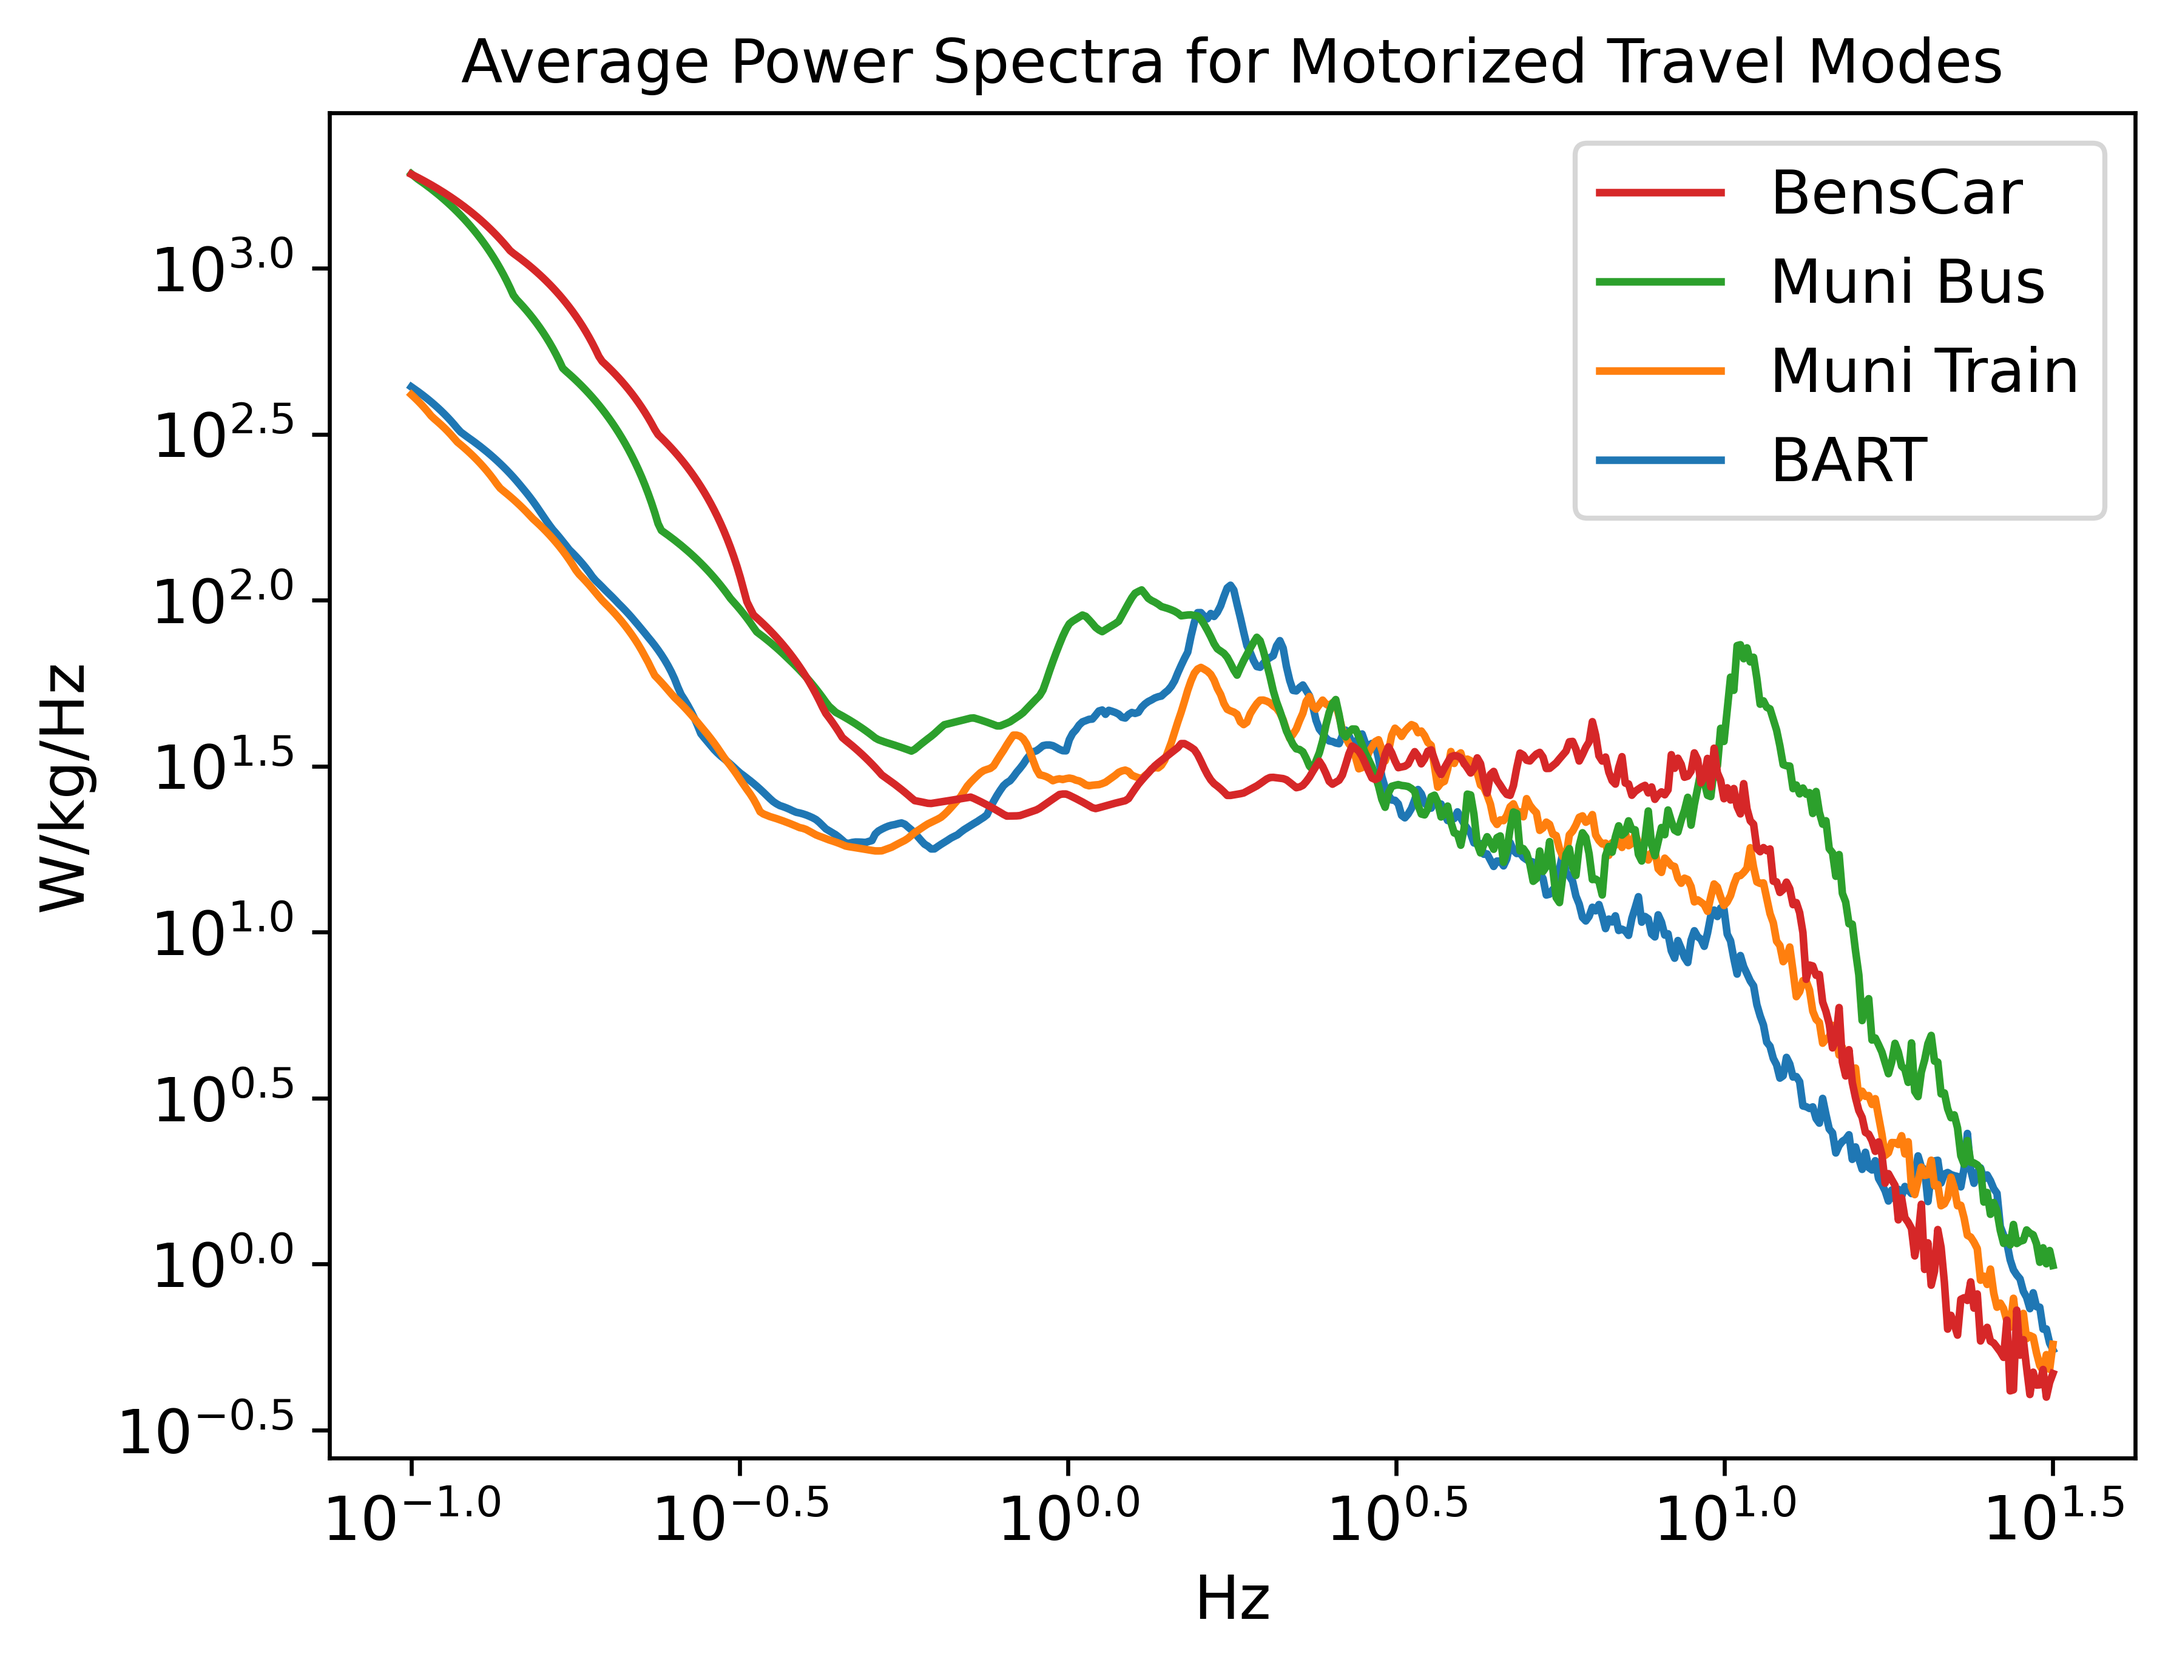
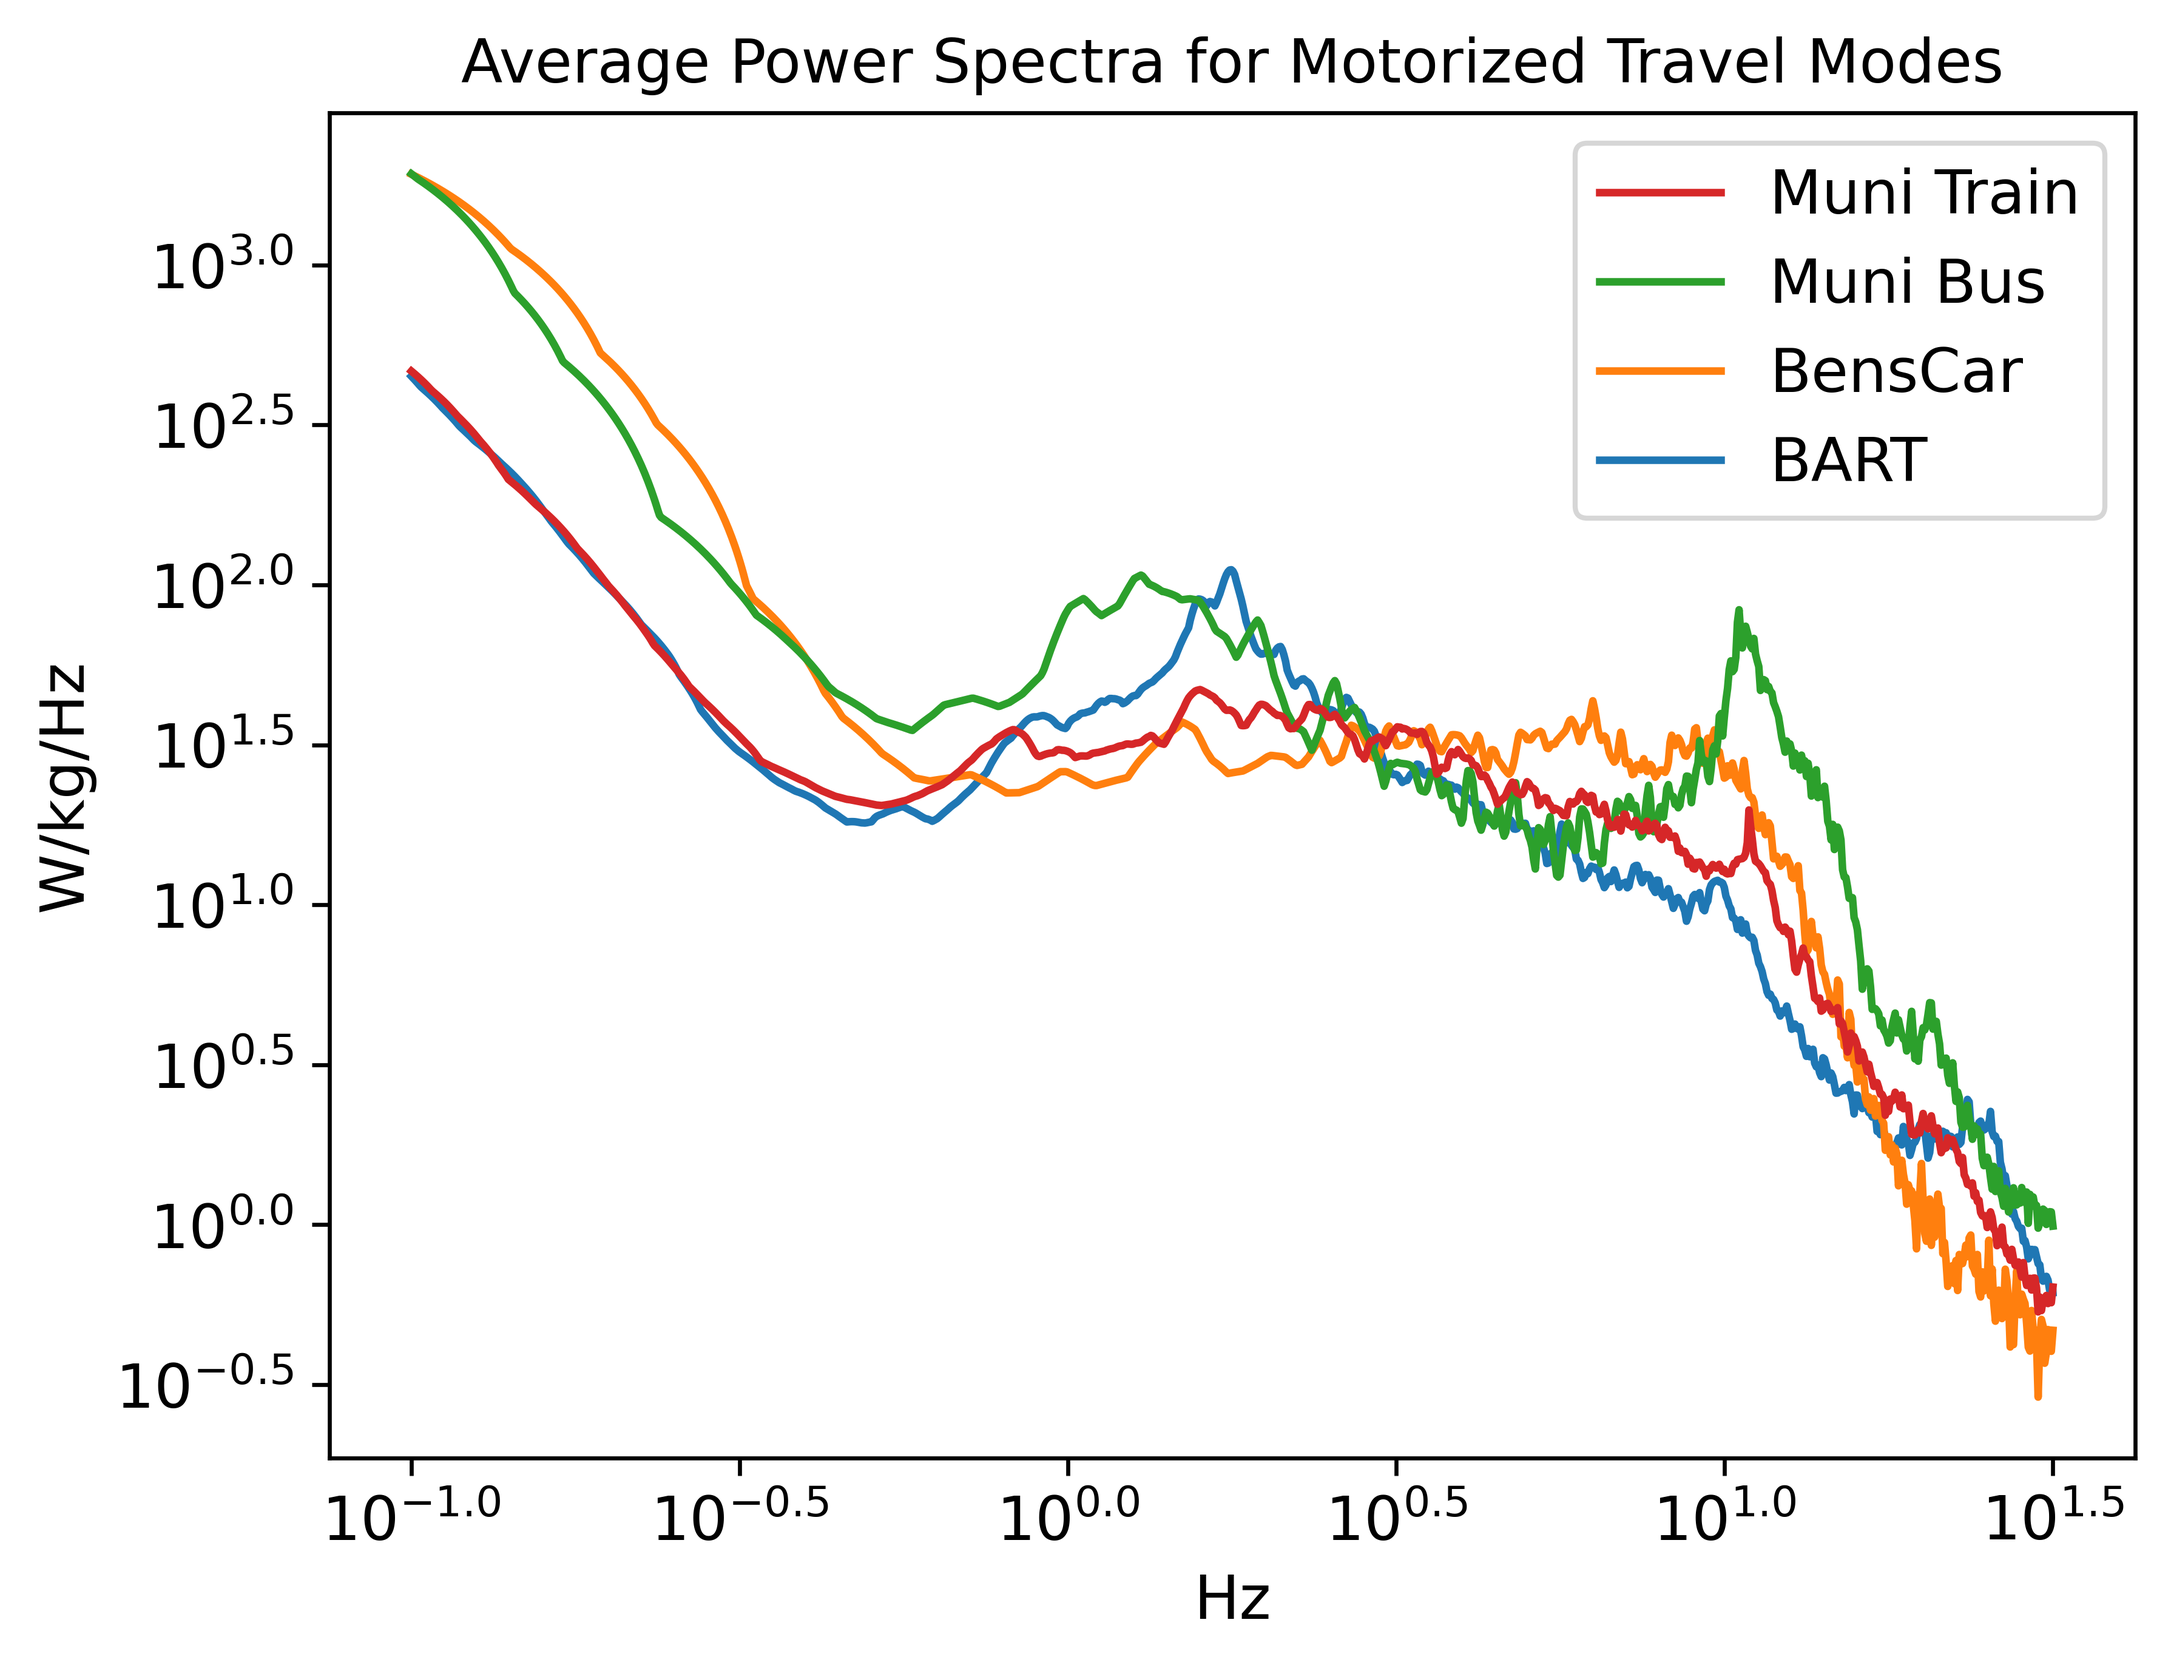
Functionalize power range analysis and input super-categories of mode types
-Also adjust the number of frequency bins to interpolate and save to 1000.

diff --git a/accelerometers.py b/accelerometers.py
@@ -3,7 +3,6 @@
 
 import pandas as pd
 import numpy as np
-import pathlib
 
 
 # Constants and file column conventions for Accelerometer.csv
@@ -13,6 +12,8 @@ TIME = 'seconds_elapsed'
 FREQ_LABEL = 'Frequency'
 POWER_LABEL = 'Smoothed Power'
 DELIMITTER = '--'
+MODE_KEY_PATH = 'ModeKey.csv'
+MODE_TYPE = 'Mode Type'
 
 
 # Clean file
@@ -70,7 +71,7 @@ def ps(data, smooth_window=10):
     return df[[POWER_LABEL]]
 
 
-def interp_combine(ps_col, freq=np.logspace(-1, 1.5, 500)):
+def interp_combine(ps_col, freq=np.logspace(-1, 1.5, 1000)):
     # Interpolate and combine onto a common axis
     # ps collection has keys with labels concatenated by category and DELIMITTER with individual trip
     # Organize with column multi-index and return.
@@ -91,3 +92,50 @@ def interp_combine(ps_col, freq=np.logspace(-1, 1.5, 500)):
     combined = combined.pivot(index='Freq', columns=['Category', 'SubTrip'], values='Power')
     
     return combined
+
+
+def mode_map(key):
+    # Dictionary of modes read in from file
+    df = pd.read_csv(MODE_KEY_PATH, header=0, index_col=0)
+    try:
+        return df.loc[key][MODE_TYPE]
+    except KeyError:
+        return key
+
+
+def mode_match(keys, val):
+    # Return list of keys that match val using mode_map
+    # keys is iterable
+    subset = []
+    for key in keys:
+        if mode_map(key) == val:
+            subset.append(key)
+    return subset
+
+
+def pow_range(df, bounds=[10**(-0.5), 10**(0.75)], unlogged=False,
+              range_names=['Bulk Acceleration', 'Oscillation', 'Vibration']):
+    # Integrated power over a frequency range
+    # df is an already logged (by default) power spectrum
+    # bounds must have length 1 less than range_names
+    
+    if len(bounds) != len(range_names) - 1:
+        raise ValueError
+
+    if unlogged:
+        df = df.map(np.log10)
+    
+    pow_seg = pd.DataFrame(index=np.arange(len(bounds)+1), columns=df.columns)
+    for i in pow_seg.index:
+        if i == 0:
+            islice = df.index <= bounds[i]
+        elif i < len(bounds):
+            islice = (df.index > bounds[i-1]) & (df.index <= bounds[i])
+        else:
+            islice = df.index > bounds[i-1]
+        segment = df.loc[islice]
+        for col in pow_seg.columns:
+            pow_seg.loc[i, col] = np.trapezoid(10**segment[col], x=segment.index)
+
+    pow_seg = pow_seg.rename({i: range_names[i] for i in range(len(range_names))})
+    return pow_seg

diff --git a/analyze_functionalized.py b/analyze_functionalized.py
@@ -101,3 +101,33 @@ print('Standard Errors')
 z_grouped_stats = (agg_stats_df.T.groupby(level=0).std() / agg_stats_df.T.groupby(level=0).mean()).map(lambda x: np.round(x, 2))
 z_grouped_stats.to_csv(outputdir / 'Z for Grouped Agg Stats by Trip.csv')
 print(z_grouped_stats)
+
+# Summary chart using frequency ranges
+pow_seg = accelerometers.pow_range(combined_bycat_log)
+plot_util.generic_plot(pow_seg.map(np.log10).T, kind='bar', ylabel='W/kg', unstacked=True, title='Power by Freq. Range & Mode',
+                       output_directory=outputdir, logy=True, fontsize=9)
+
+# Summarize by mode type
+# Currently used types of modes
+mode_types = list(set([accelerometers.mode_map(mode) for mode in combined_bycat_log.columns]))
+
+for t in mode_types:
+    modes = accelerometers.mode_match(combined_bycat_log.columns, t)
+
+    # Separate chart for each type of mode
+    plot_util.generic_plot(combined_bycat_log[modes].rename(np.log10, axis=0), kind='line',
+                           xlabel='Hz', ylabel='W/kg/Hz', output_directory=outputdir,
+                           title='Average Power Spectra for ' + t + ' Travel Modes', logx=True, logy=True)
+
+    plot_util.generic_plot(pow_seg[modes].T, kind='bar', ylabel='W/kg', title='Power by Freq. Range for ' + t + ' Modes',
+                           output_directory=outputdir)
+
+# Average over mode type
+combined_bymode_type = combined_bycat_log.rename(accelerometers.mode_map, axis=1).groupby('Category', axis=1).mean()
+plot_util.generic_plot(combined_bymode_type.rename(np.log10, axis=0), kind='line', xlabel='Hz', ylabel='W/kg/Hz',
+                       output_directory=outputdir, title='Average Power Spectra by Mode Type',
+                       logx=True, logy=True)
+
+print('% of Power')
+print(pow_seg / pow_seg.sum())
+pow_seg.to_csv(outputdir / 'Power by Freq. Range.csv')

diff --git a/README.md b/README.md
@@ -7,7 +7,7 @@ See app info at https://www.tszheichoi.com/sensorlogger.
 And https://github.com/tszheichoi/awesome-sensor-logger/.
 
 Workflow: Save trips with "Accelerometer" toggled as the included sensor. (You'll need to enable location tracking in the background for the app
-on iOS, and it's useful to save location too for trip naming and reconstruction if needed.) Save the files in subfolders with the mode or other category desired. Move output zips to ignored input directory; run unzip.sh, adjusting paths if needed; use analyze_functionalized as a script make plots for new files and print stats and summary plot. explore_analyzed allows for custom plots in a notebook.
+on iOS, and it's useful to save location too for trip naming and reconstruction if needed.) Save the files in subfolders with the mode or other category desired. Move output zips to ignored input directory; run unzip.sh, adjusting paths if needed; use analyze_functionalized as a script make plots for new files and print stats and summary plot. explore_analyzed allows for custom plots in a notebook. Adjust the Mode Type keys if desired.
 
 IF YOU ARE CHECKING IN CODE and using notebooks make sure to restart kernel and clear outputs, or otherwise mask your location, to avoid checking in personal
 location info. The code is written to not reference any filenames or trip titles directly as variable names or literal strings.
@@ -39,3 +39,6 @@ Additional user-customized plots
 
 ## unzip.sh
 Adapted a bash script from Stack Overflow -- use at your own risk.
+
+## ModeKey.csv
+Dictionary of mode types to analyze (major categories above the minor mode categories implemented in subfolders).
